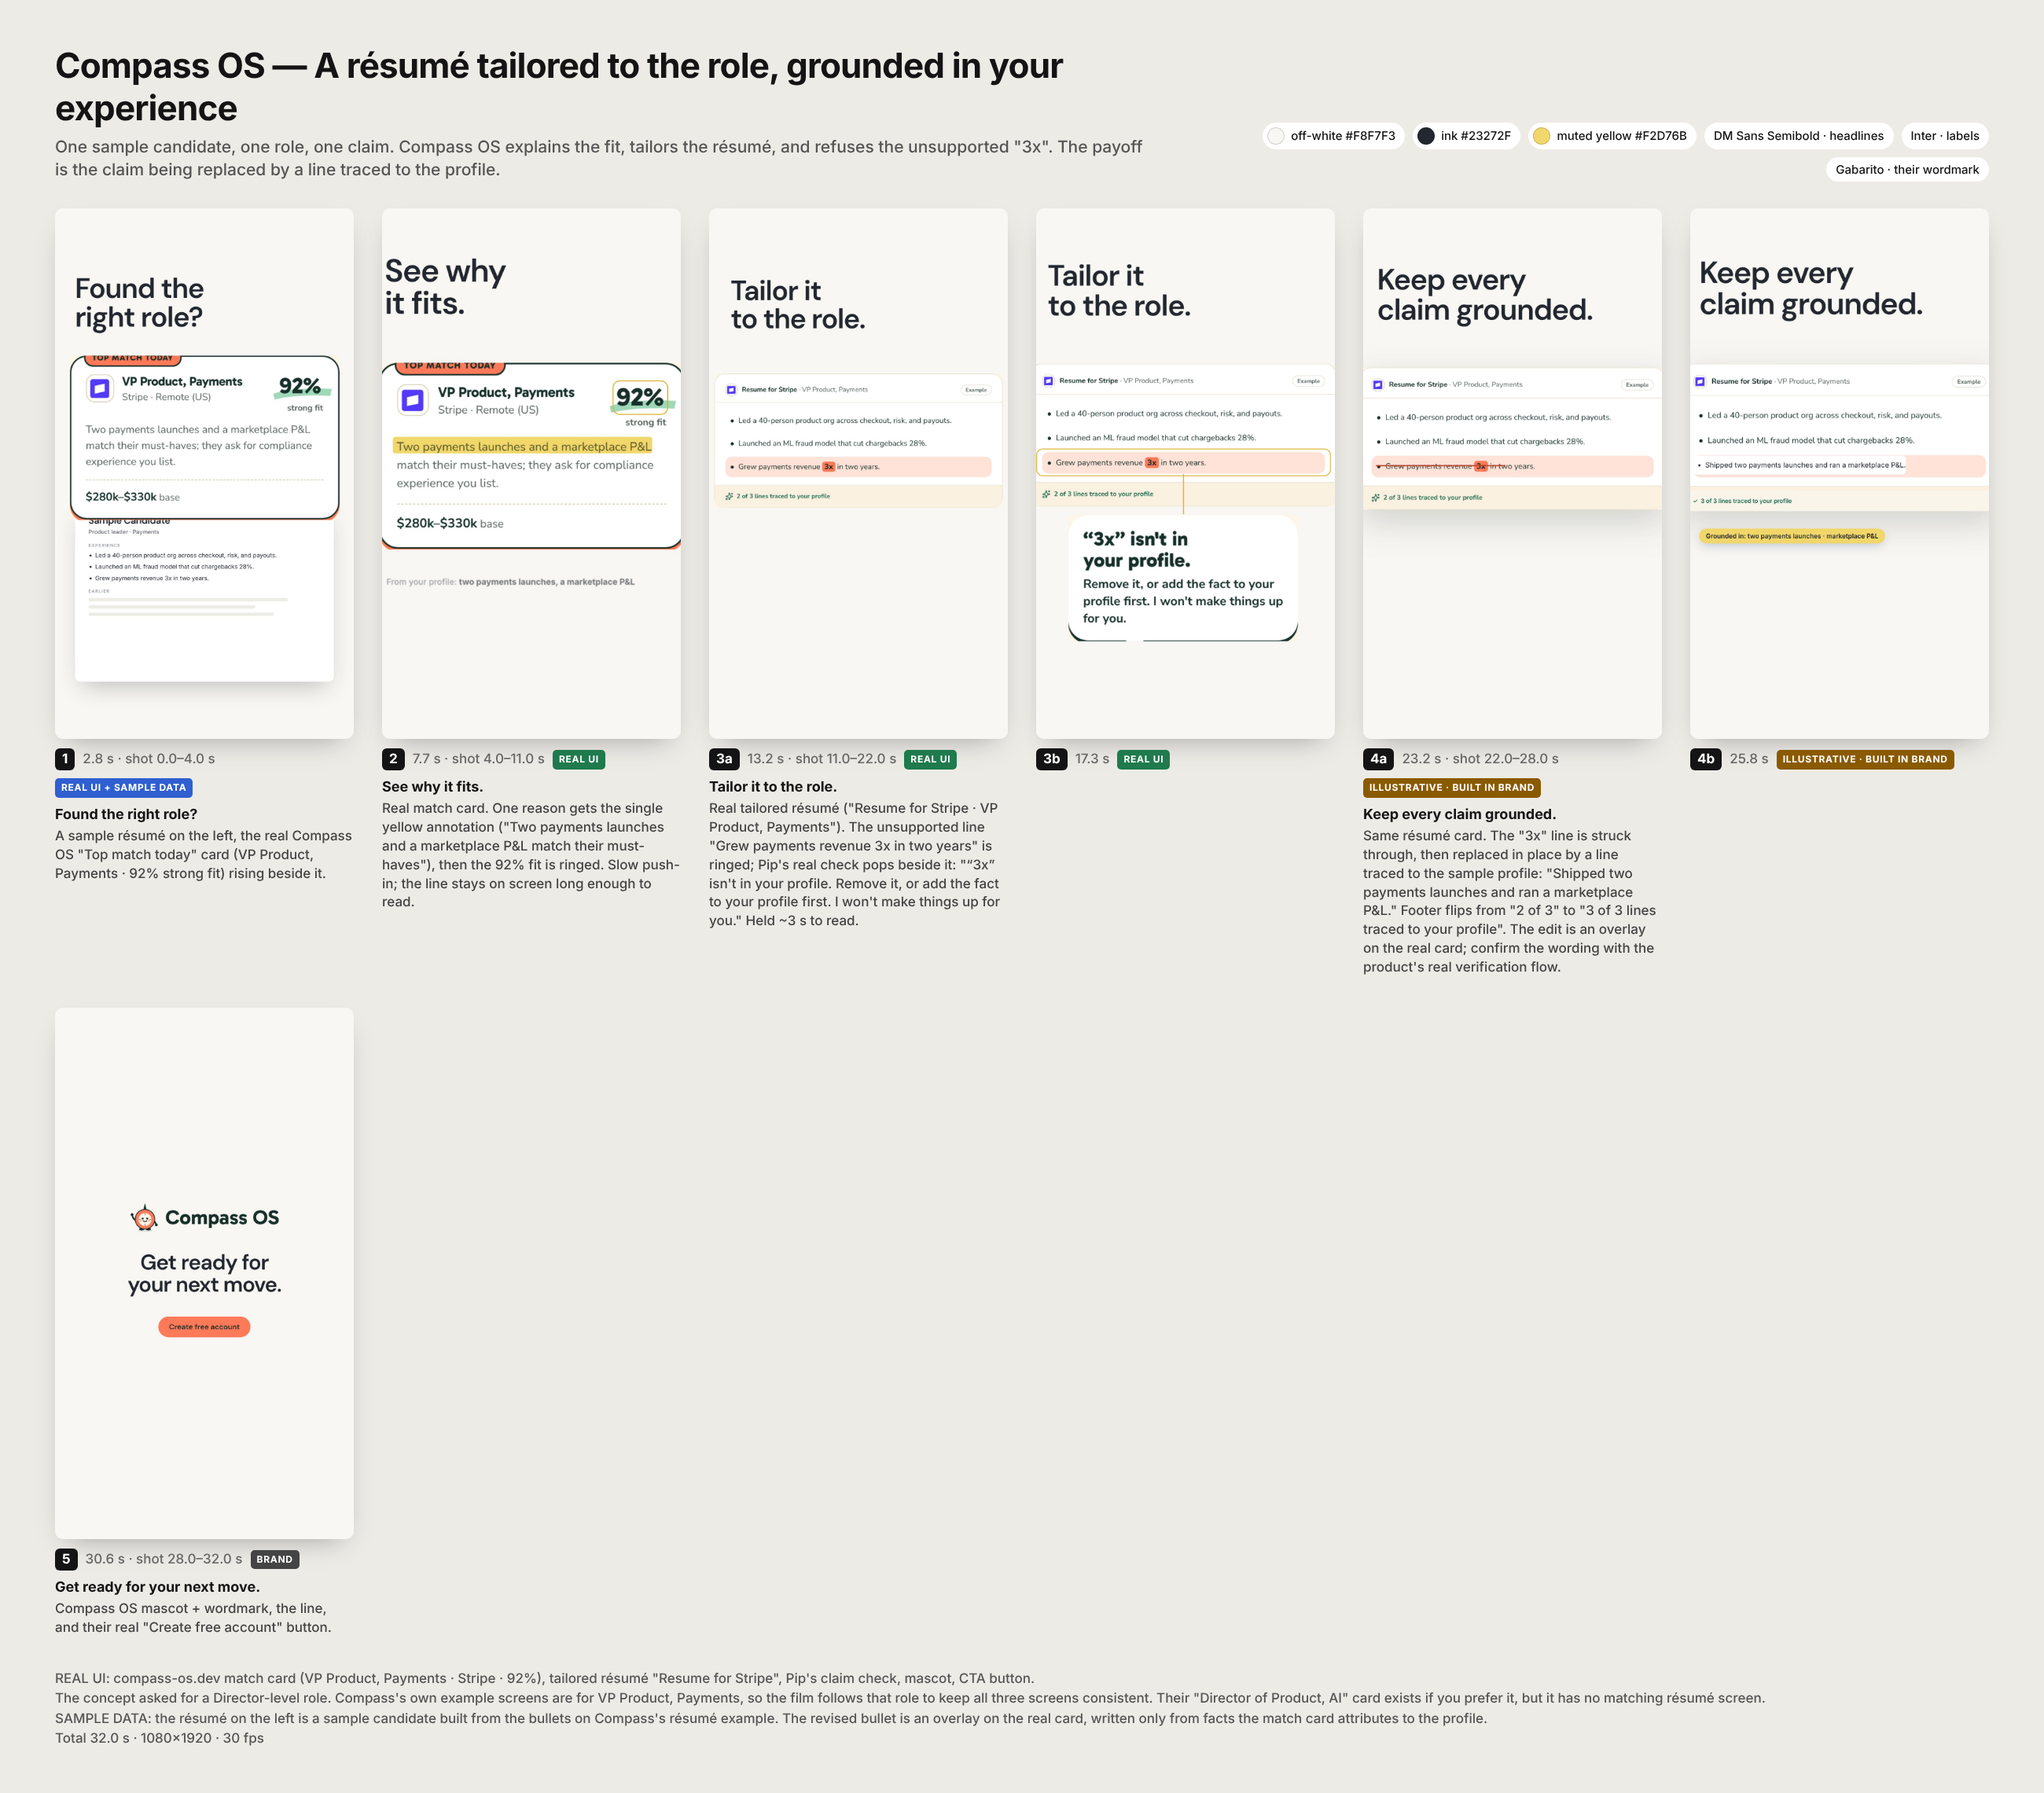
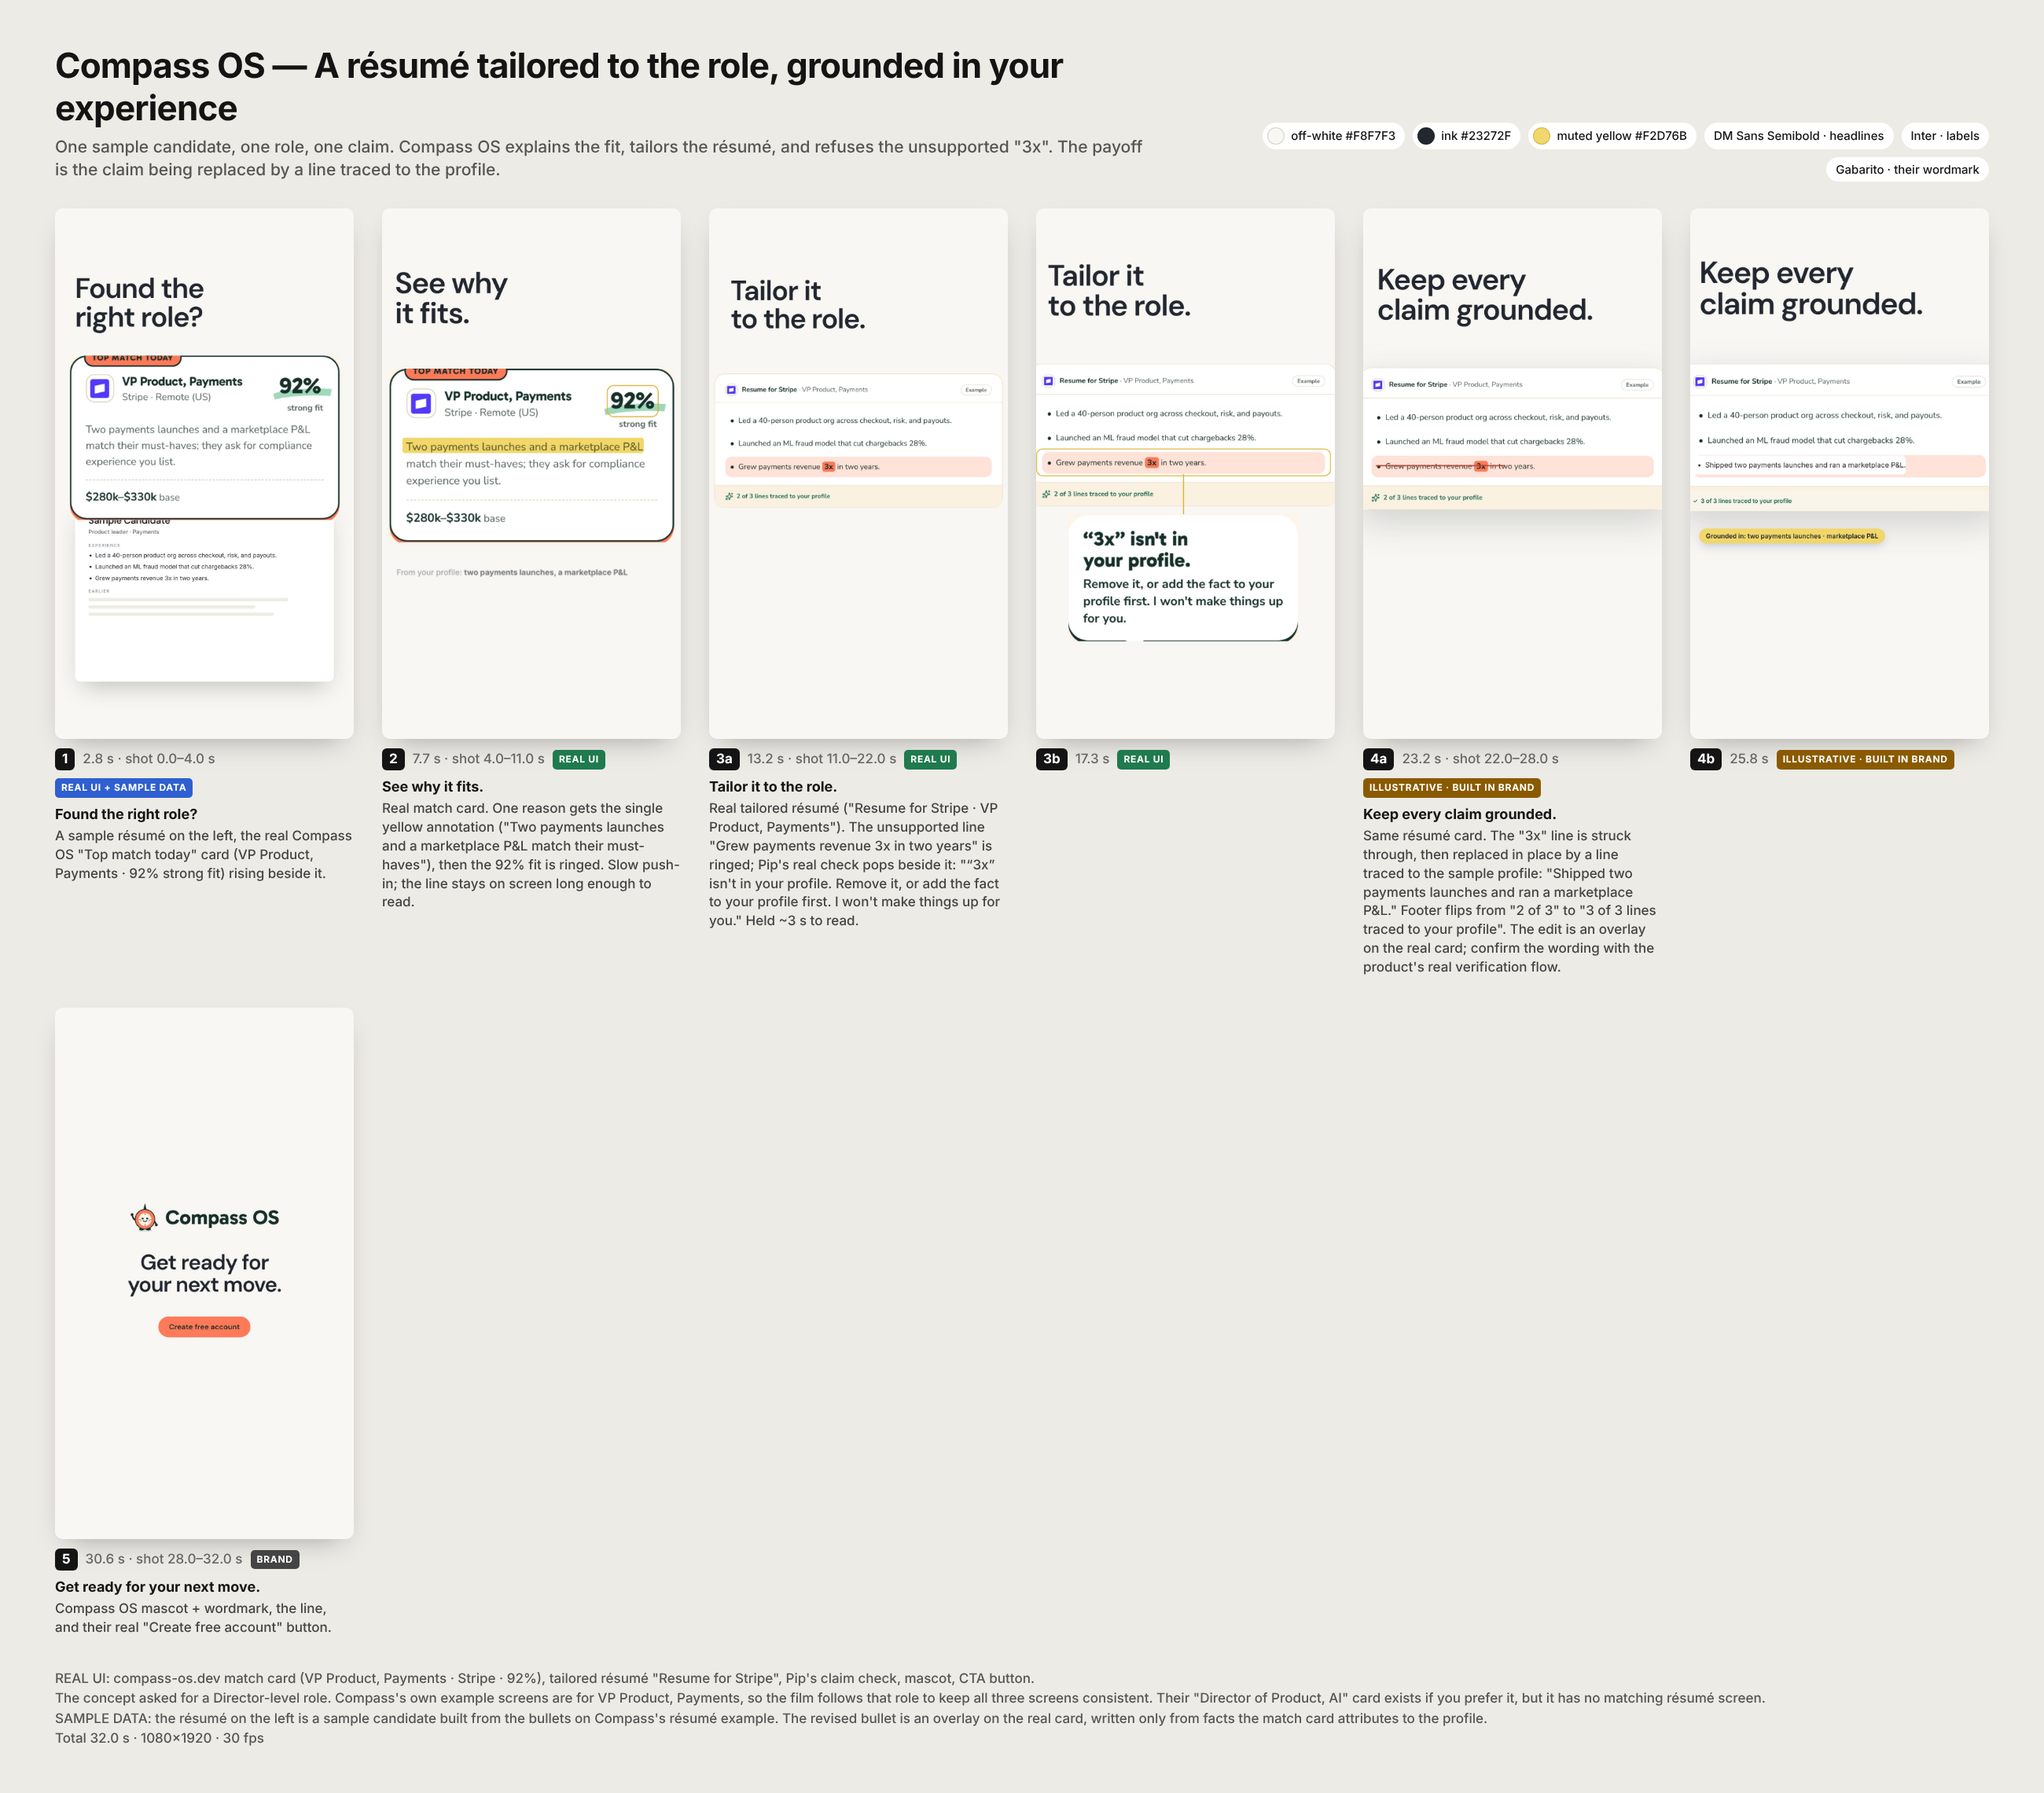
Add story_stills.cjs (exact full-res frames); keep headlines in frame during push-ins
Headlines now fade before a strong push-in (SeySpace deliver/prints, Supacheap start);
softer pushes on Supacheap send, Clocknext charge, Compass fit (9:16), SilentRoom shape (9:16).

Claude-Session: https://claude.ai/code/session_01Bj9t4eAUM8tCdGzL6hCUT3

Changed region(s): [[0.1869, 0.1245, 0.3427, 0.3424]]

diff --git a/films/seyspace/beats.js b/films/seyspace/beats.js
@@ -58,10 +58,10 @@ starts here.</div>`,
     cam: [[0, 1, .5, .5], [2.4, 1, .646, .564], [4, 1.2, .646, .564]],
     cursor: [[1.4, [.8, 1.05]], [2.6, [.646, .566], true]],
     camV: [[0, 1, .5, .5], [2.4, 1, .5, .5], [4, 1.15, .5, .5]], cursorV: [[1.4, [.8, 1.05]], [2.6, [.5, .5], true]],
-    html: `<div class="hd" style="left:120px;top:230px;font-size:120px;white-space:pre" data-in=".3,.8,up">Deliver
+    html: `<div class="hd" style="left:120px;top:230px;font-size:120px;white-space:pre" data-in=".3,.8,up" data-out="2.3,.4">Deliver
 the gallery.</div>
       <div class="dev" style="left:640px;top:200px;width:1200px" data-in=".1,.9,rise"><img src="assets/gal_digital_delivery_dev.png"></div>`,
-    htmlV: `<div class="hd" style="left:80px;top:260px;font-size:120px;white-space:pre" data-in=".3,.8,up">Deliver
+    htmlV: `<div class="hd" style="left:80px;top:260px;font-size:120px;white-space:pre" data-in=".3,.8,up" data-out="2.3,.4">Deliver
 the gallery.</div>
       <div class="dev" style="left:40px;top:640px;width:1000px" data-in=".1,.9,rise"><img src="assets/gal_digital_delivery_dev.png"></div>`,
     sfx: [[.1, 'whoosh'], [2.6, 'click']],
@@ -99,14 +99,14 @@ the gallery.</div>
     cam: [[0, 1, .5, .5], [2.2, 1, .5, .5], [3.2, 1.25, .79, .34], [4.4, 1.25, .79, .34], [5.4, 1.0, .5, .5]],
     cursor: [[4.4, [.95, 1.05]], [5.4, [.843, .9], true]],
     camV: [[0, 1, .5, .5], [2.2, 1, .5, .5], [3.2, 1.3, .76, .4], [4.4, 1.3, .76, .4], [5.4, 1.0, .5, .5]], cursorV: [[4.4, [.95, 1.05]], [5.4, [.786, .643], true]],
-    html: `<div class="hd" style="left:120px;top:230px;font-size:120px;white-space:pre" data-in=".3,.8,up">Sell
+    html: `<div class="hd" style="left:120px;top:230px;font-size:120px;white-space:pre" data-in=".3,.8,up" data-out="2.1,.4">Sell
 the prints.</div>
-      <div class="cap" style="left:126px;top:500px" data-in=".7,.7,up">8 × 10 fine art print</div>
+      <div class="cap" style="left:126px;top:500px" data-in=".7,.7,up" data-out="2.1,.4">8 × 10 fine art print</div>
       <div class="dev" style="left:600px;top:170px;width:1260px" data-in=".05,.9,rise"><img src="assets/gal_sell_photos_dev.png"></div>
       <div style="position:absolute;left:1424px;top:306px;width:332px;height:132px;border-radius:14px" data-ring="3.1,.6"></div>`,
-    htmlV: `<div class="hd" style="left:80px;top:260px;font-size:120px;white-space:pre" data-in=".3,.8,up">Sell
+    htmlV: `<div class="hd" style="left:80px;top:260px;font-size:120px;white-space:pre" data-in=".3,.8,up" data-out="2.1,.4">Sell
 the prints.</div>
-      <div class="cap" style="left:84px;top:530px;font-size:20px" data-in=".7,.7,up">8 × 10 fine art print</div>
+      <div class="cap" style="left:84px;top:530px;font-size:20px" data-in=".7,.7,up" data-out="2.1,.4">8 × 10 fine art print</div>
       <div class="dev" style="left:40px;top:640px;width:1000px" data-in=".05,.9,rise"><img src="assets/gal_sell_photos_dev.png"></div>`,
     sfx: [[.05, 'whoosh'], [3.1, 'pop'], [5.4, 'click']],
   },

diff --git a/films/supacheap/beats.js b/films/supacheap/beats.js
@@ -27,10 +27,10 @@ personal data?</div>
     bg: 'light', len: 7, hero: 5,
     cam: [[0, 1, .5, .5], [2.0, 1, .5, .5], [3.6, 1.45, .56, .78], [7, 1.5, .56, .78]],
     camV: [[0, 1, .5, .5], [2.0, 1, .5, .5], [3.6, 1.3, .5, .62], [7, 1.33, .5, .62]],
-    html: `<div class="hd" style="left:120px;top:110px" data-in=".1,.8,up">Start with five brokers.</div>
+    html: `<div class="hd" style="left:120px;top:110px" data-in=".1,.8,up" data-out="1.9,.4">Start with five brokers.</div>
       <div class="win" style="left:460px;top:290px;width:1300px" data-in=".2,.8,rise"><div class="bar"><i></i><i></i><i></i><span>supacheap.eu/en/free-tier</span></div><img src="assets/start.png"></div>
       <div class="ringbox" style="left:735px;top:866px;width:752px;height:232px" data-ring="3.8,.6"></div>`,
-    htmlV: `<div class="hd" style="left:80px;top:250px" data-in=".1,.8,up">Start with
+    htmlV: `<div class="hd" style="left:80px;top:250px" data-in=".1,.8,up" data-out="1.9,.4">Start with
 five brokers.</div>
       <div class="win" style="left:40px;top:640px;width:1000px" data-in=".2,.8,rise"><div class="bar"><i></i><i></i><i></i><span>supacheap.eu/en/free-tier</span></div><img src="assets/start.png"></div>
       <div class="ringbox" style="left:278px;top:1110px;width:582px;height:182px" data-ring="3.8,.6"></div>`,
@@ -40,7 +40,7 @@ five brokers.</div>
     name: 'send', src: 'real', copy: 'Send removal requests.', boards: [1.0, 6.2],
     note: 'The real free-test form, filled in field by field with dummy data (Alex Muster, Musterstraße 12, 10115 Berlin, Germany); both consent boxes ticked; cursor presses "Request confirmation link". Captured from the live page; nothing was submitted.',
     bg: 'light', len: 9, hero: 6.2,
-    cam: [[0, 1, .5, .5], [4.6, 1.03, .62, .5], [6.4, 1.1, .62, .8], [9, 1.1, .62, .8]],
+    cam: [[0, 1, .5, .5], [4.6, 1.03, .5, .5], [6.4, 1.06, .5, .8], [9, 1.06, .5, .8]],
     camV: [[0, 1, .5, .5], [6.4, 1.06, .5, .7], [9, 1.06, .5, .7]],
     cursor: [[5.2, [.98, 1.05]], [6.4, '#reqbtn', true]],
     cursorV: [[5.2, [.98, 1.05]], [6.4, '#reqbtn', true]],

diff --git a/films/silentroom/beats.js b/films/silentroom/beats.js
@@ -57,7 +57,7 @@ a place to start.</div>
     note: 'The writer types the first line. A suggestion appears as ghost text (burgundy italic, "Suggestion · Tab to accept"); accepted, it turns to ink. Then the writer strikes half of it and types their own clause: "I sat with the notes I had been avoiding all week." Held on that edit. Sample text; PLACEHOLDER until confirmed against the real AI-assisted workflow.',
     bg: 'light', len: 12, hero: 9.6,
     cam: [[0, 1, .5, .5], [4.6, 1, .5, .5], [6.4, 1.06, .64, .5], [12, 1.07, .64, .5]],
-    camV: [[0, 1, .5, .5], [4.6, 1, .5, .5], [6.4, 1.08, .5, .55], [12, 1.1, .5, .55]],
+    camV: [[0, 1, .5, .5], [4.6, 1, .5, .5], [6.4, 1.03, .5, .55], [12, 1.04, .5, .55]],
     html: `<div class="hd" style="left:120px;top:80px;font-size:64px" data-in=".1,.8,up">Shape the draft in your own words.</div>
       <div class="win" style="left:120px;top:220px;width:1680px;height:800px">
         <div class="side"><div class="cap" style="position:static;margin-bottom:6px">Project</div><div style="font:600 30px 'Source Serif 4';margin-bottom:30px">The Quiet Hours</div>

diff --git a/films/compassos/beats.js b/films/compassos/beats.js
@@ -22,7 +22,7 @@ right role?</div>
     note: 'Real match card. One reason gets the single yellow annotation ("Two payments launches and a marketplace P&L match their must-haves"), then the 92% fit is ringed. Slow push-in; the line stays on screen long enough to read.',
     bg: 'light', len: 6.5, hero: 3.4,
     cam: [[0, 1, .5, .5], [1.2, 1, .5, .5], [3.2, 1.07, .62, .6], [6.5, 1.09, .62, .6]],
-    camV: [[0, 1, .5, .5], [1.2, 1, .5, .5], [3.2, 1.14, .5, .45], [6.5, 1.18, .5, .45]],
+    camV: [[0, 1, .5, .5], [1.2, 1, .5, .5], [3.2, 1.06, .5, .45], [6.5, 1.08, .5, .45]],
     html: `<div class="hd" style="left:120px;top:130px;font-size:100px" data-in=".1,.8,up">See why it fits.</div>
       <div class="shot" style="left:560px;top:300px;width:1240px" data-in="0,.7,fade"><img src="assets/match.png"></div>
       <div class="hl" style="left:620px;top:600px;width:1046px;height:66px;opacity:.55" data-in="1.6,.7,wipe"></div>

diff --git a/films/clocknext/beats.js b/films/clocknext/beats.js
@@ -50,7 +50,7 @@ money?</div>
     name: 'charge', src: 'sample', copy: 'Turn usage into a charge.', boards: [1.6, 6.0],
     note: 'Real Clocknext plan builder: the "Voice call" composite, one line item at $0.45 / call. The run\'s event chip flies into it; the price is ringed; result: 1 call × $0.45 = $0.45 charged to Acme Inc. (EXAMPLE).',
     bg: 'light', len: 9, hero: 6,
-    cam: [[0, 1, .5, .5], [3.0, 1, .5, .5], [4.6, 1.1, .7, .62], [9, 1.12, .7, .62]],
+    cam: [[0, 1, .5, .5], [3.0, 1, .5, .5], [4.6, 1.04, .7, .62], [9, 1.05, .7, .62]],
     html: `<div class="hd" style="left:120px;top:140px" data-in=".2,.8,up">Turn usage
 into a charge.</div>
       <div class="shot" style="left:980px;top:200px;width:820px" data-in=".3,.8,rise"><img src="assets/composite.png"></div>
